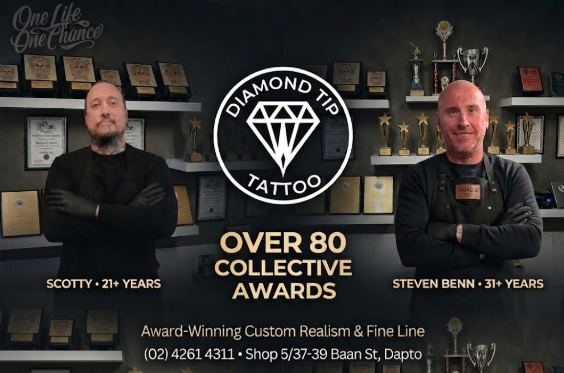
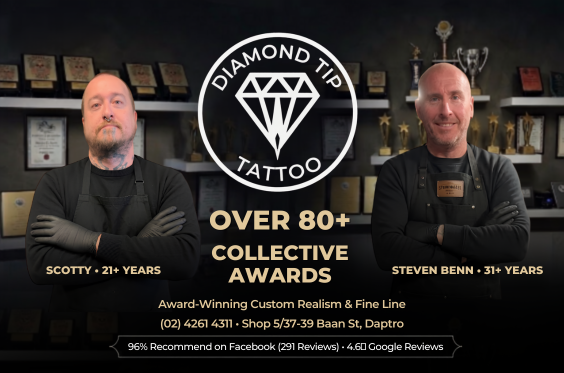
feat: use Over 80+.png as site meta/OG image
Replace the share image with the awards Over 80+ creative and refresh
Open Graph alt text.

diff --git a/index.html b/index.html
@@ -18,7 +18,7 @@
     <link rel="canonical" href="https://diamond-tip-tattoo.web.app/">
     <link rel="alternate" hreflang="en-AU" href="https://diamond-tip-tattoo.web.app/">
     <link rel="alternate" hreflang="x-default" href="https://diamond-tip-tattoo.web.app/">
-    <!-- Open Graph / social share (meta-image.png · 564×373) -->
+    <!-- Open Graph / social share (Over 80+.png · 564×373) -->
     <meta property="og:type" content="website">
     <meta property="og:site_name" content="Diamond Tip Tattoo">
     <meta property="og:title" content="Tattoo Dapto NSW | Diamond Tip Tattoo — Realism, Fine Line &amp; Custom Ink">
@@ -29,7 +29,7 @@
     <meta property="og:image:type" content="image/png">
     <meta property="og:image:width" content="564">
     <meta property="og:image:height" content="373">
-    <meta property="og:image:alt" content="Diamond Tip Tattoo — custom tattoos in Dapto NSW, Illawarra">
+    <meta property="og:image:alt" content="Diamond Tip Tattoo — 80+ awards · custom tattoos Dapto NSW">
     <meta property="og:locale" content="en_AU">
     <meta property="business:contact_data:street_address" content="Shop 5/37-39 Baan Baan St">
     <meta property="business:contact_data:locality" content="Dapto">
@@ -44,7 +44,7 @@
     <meta name="twitter:title" content="Tattoo Dapto NSW | Diamond Tip Tattoo — Realism, Fine Line &amp; Custom Ink">
     <meta name="twitter:description" content="Private tattoo studio in Dapto NSW · 4.6★ from 64 Google reviews. Custom realism, fine line &amp; black &amp; grey. Free consultation · Illawarra.">
     <meta name="twitter:image" content="https://diamond-tip-tattoo.web.app/assets/brand/meta-image.png">
-    <meta name="twitter:image:alt" content="Diamond Tip Tattoo — custom tattoos in Dapto NSW, Illawarra">
+    <meta name="twitter:image:alt" content="Diamond Tip Tattoo — 80+ awards · custom tattoos Dapto NSW">
     <link rel="icon" type="image/png" href="assets/logo/favicon.png">
     <link rel="icon" type="image/png" sizes="32x32" href="assets/logo/diamond-tip-logo.png">
     <link rel="apple-touch-icon" href="assets/logo/diamond-tip-circle.png">
